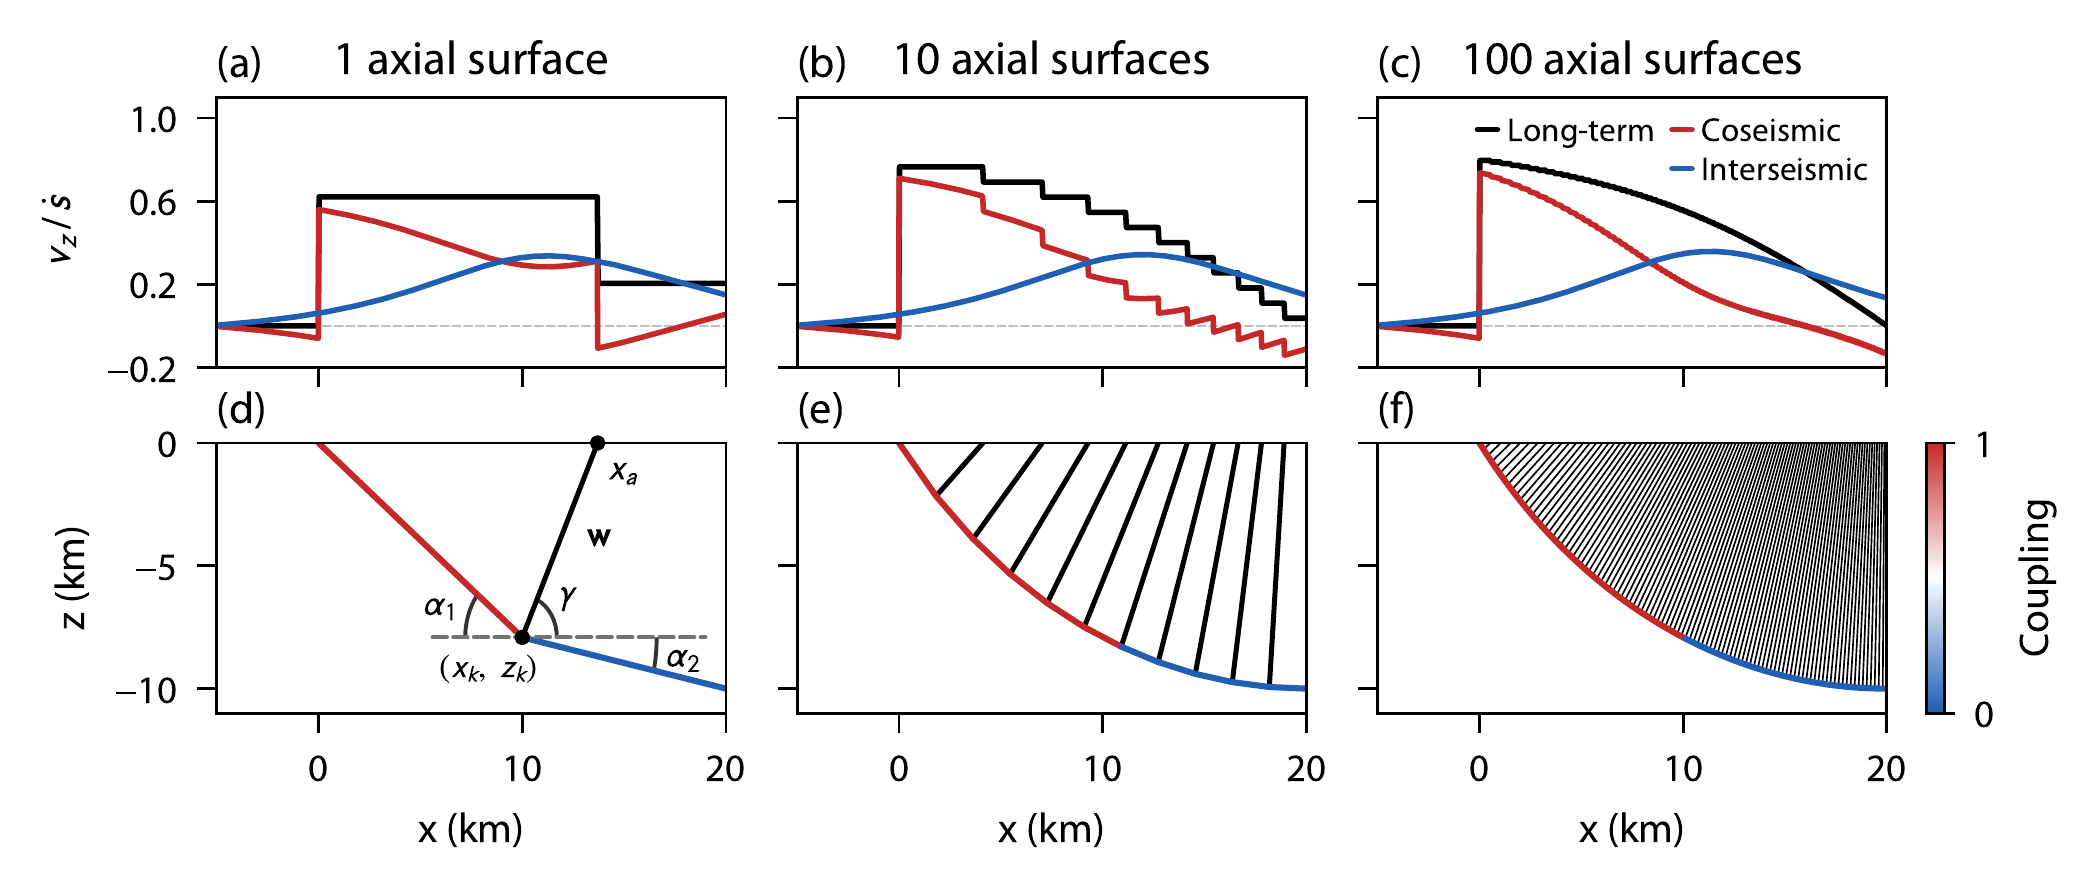
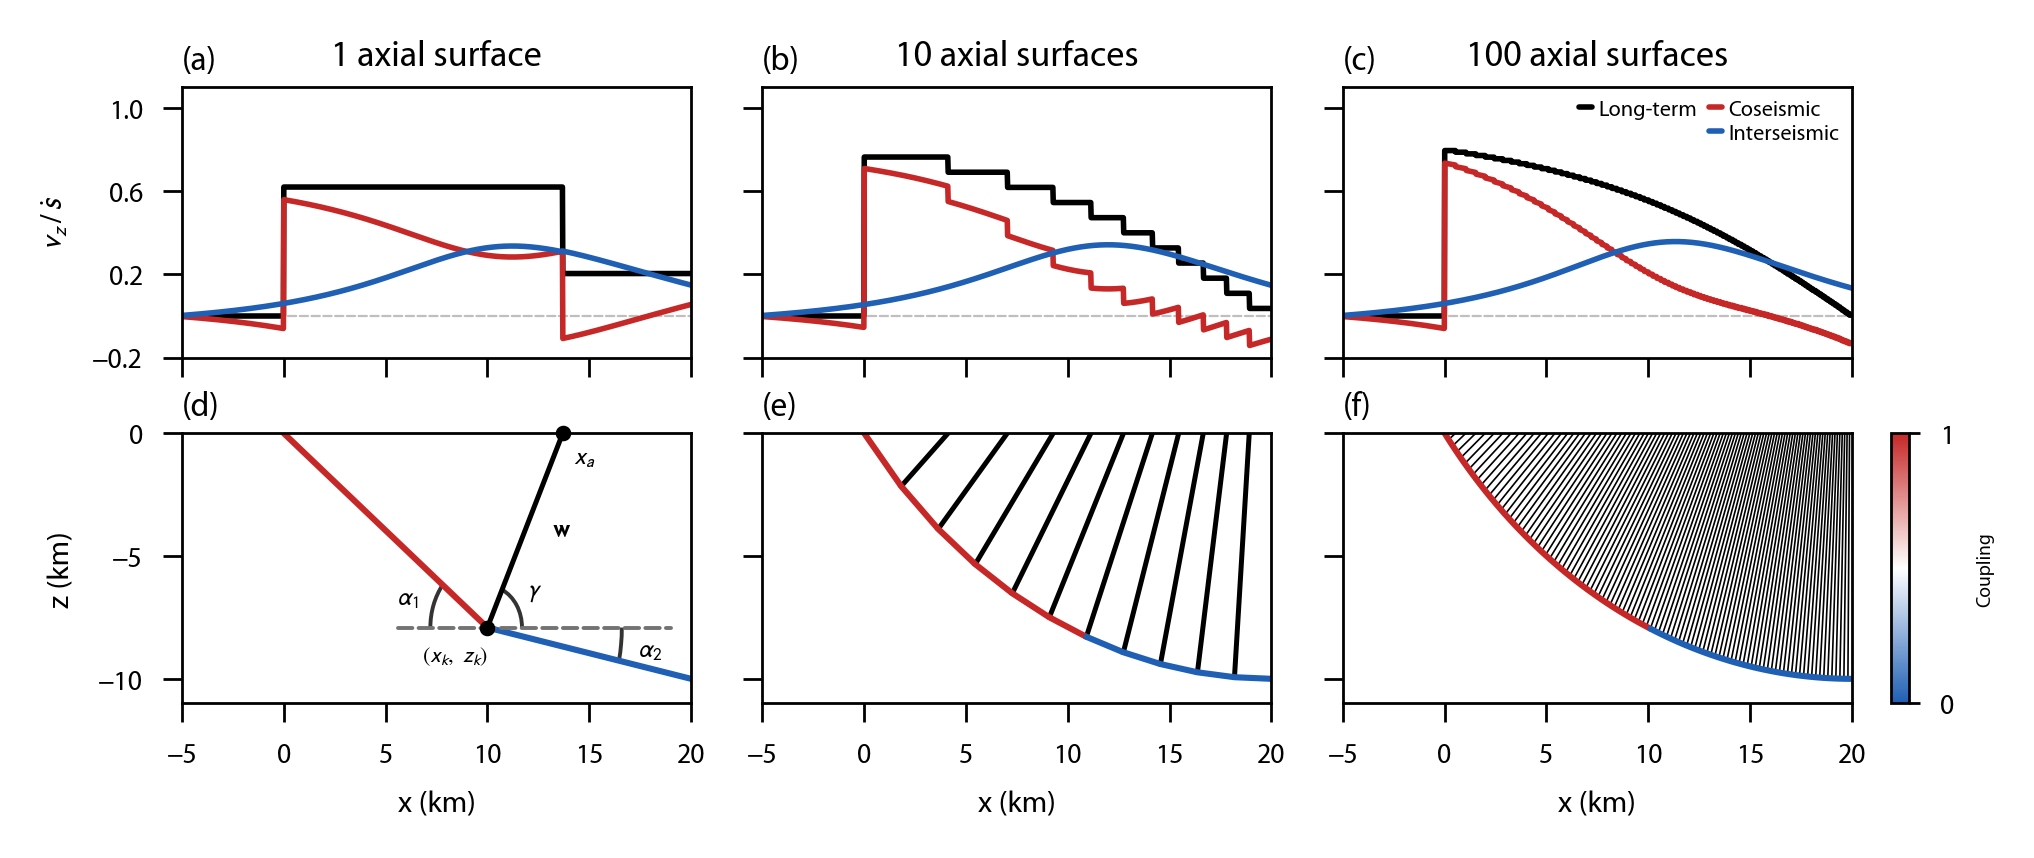
Tighten earthquake-cycle section, re-render figure for the web
Figure now built by figures/code/fig2_fault_axial_3x3_github.py in the
manuscript repo: same paper figure with every font 2 pt smaller, since
GitHub scales the 5-inch panel to the page column.

Claude-Session: https://claude.ai/code/session_01FVK7G33gt4MjMKyXmsskJ5

diff --git a/README.md b/README.md
@@ -53,13 +53,13 @@ Priors on $\dot{s}$ and $\theta$ are informative. In the Himalaya, the Main Hima
 
 ## Earthquake cycle
 
-The uplift $U=\dot{s}\sin\theta$ above is the long-term, cycle-averaged field. Over a balanced earthquake cycle it splits into a coseismic and an interseismic part,
+The uplift $U=\dot{s}\sin\theta$ above is the long-term, cycle-averaged field. Over a balanced cycle it splits as
 
 ```math
 v_\mathrm{interseismic}=v_\mathrm{long\text{-}term}-v_\mathrm{coseismic},
 ```
 
-so recovering fault geometry from topography also fixes what the geodetic fields should look like. Where the fault bends, flexural slip folds the hanging wall across an axial surface, the bisector of the interlimb angle. Material crossing that surface changes velocity discontinuously, and the jump has the same deformation-gradient field as slip on a fault, so each axial surface can be carried as a dislocation in an elastic half-space ([Souter & Hager, 1997](https://doi.org/10.1029/97JB00209)) alongside the fault segments themselves ([Freund & Barnett, 1976](https://doi.org/10.1785/BSSA0660030667)). Discretizing one listric fault ever more finely spreads the discrete folds into a continuous distribution of slip density $\dot{s}\kappa$, and long-term, coseismic, and interseismic uplift all converge to the smooth non-planar limit. This supports Section 2.3 (Non-planar faults) of the paper, where the figure below appears as Figure 2; `earthquake_cycle.ipynb` builds the whole construction from scratch.
+so geometry recovered from topography also predicts the geodetic fields. At a fault bend, flexural slip folds the hanging wall across an axial surface; material crossing it changes velocity discontinuously, and that jump deforms the elastic half-space exactly as fault slip does, so each axial surface is carried as a dislocation ([Souter & Hager, 1997](https://doi.org/10.1029/97JB00209)) alongside the fault segments ([Freund & Barnett, 1976](https://doi.org/10.1785/BSSA0660030667)). Discretizing one listric fault more finely spreads the folds into a continuous distribution of slip density $\dot{s}\kappa$, and all three fields converge to the smooth non-planar limit. Section 2.3 of the paper; derived from scratch in `earthquake_cycle.ipynb`.
 
 <p align="center">
   <img src="assets/fault_axial_3x3.png" width="100%" alt="Convergence of the axial-surface dislocation construction for one listric fault discretized with 1, 10, and 100 axial surfaces. Top row: vertical surface velocity, long-term in black, coseismic in red, interseismic in blue. Bottom row: fault geometry colored by coupling from locked to creeping, with the axial surfaces drawn from each bend to the free surface">
